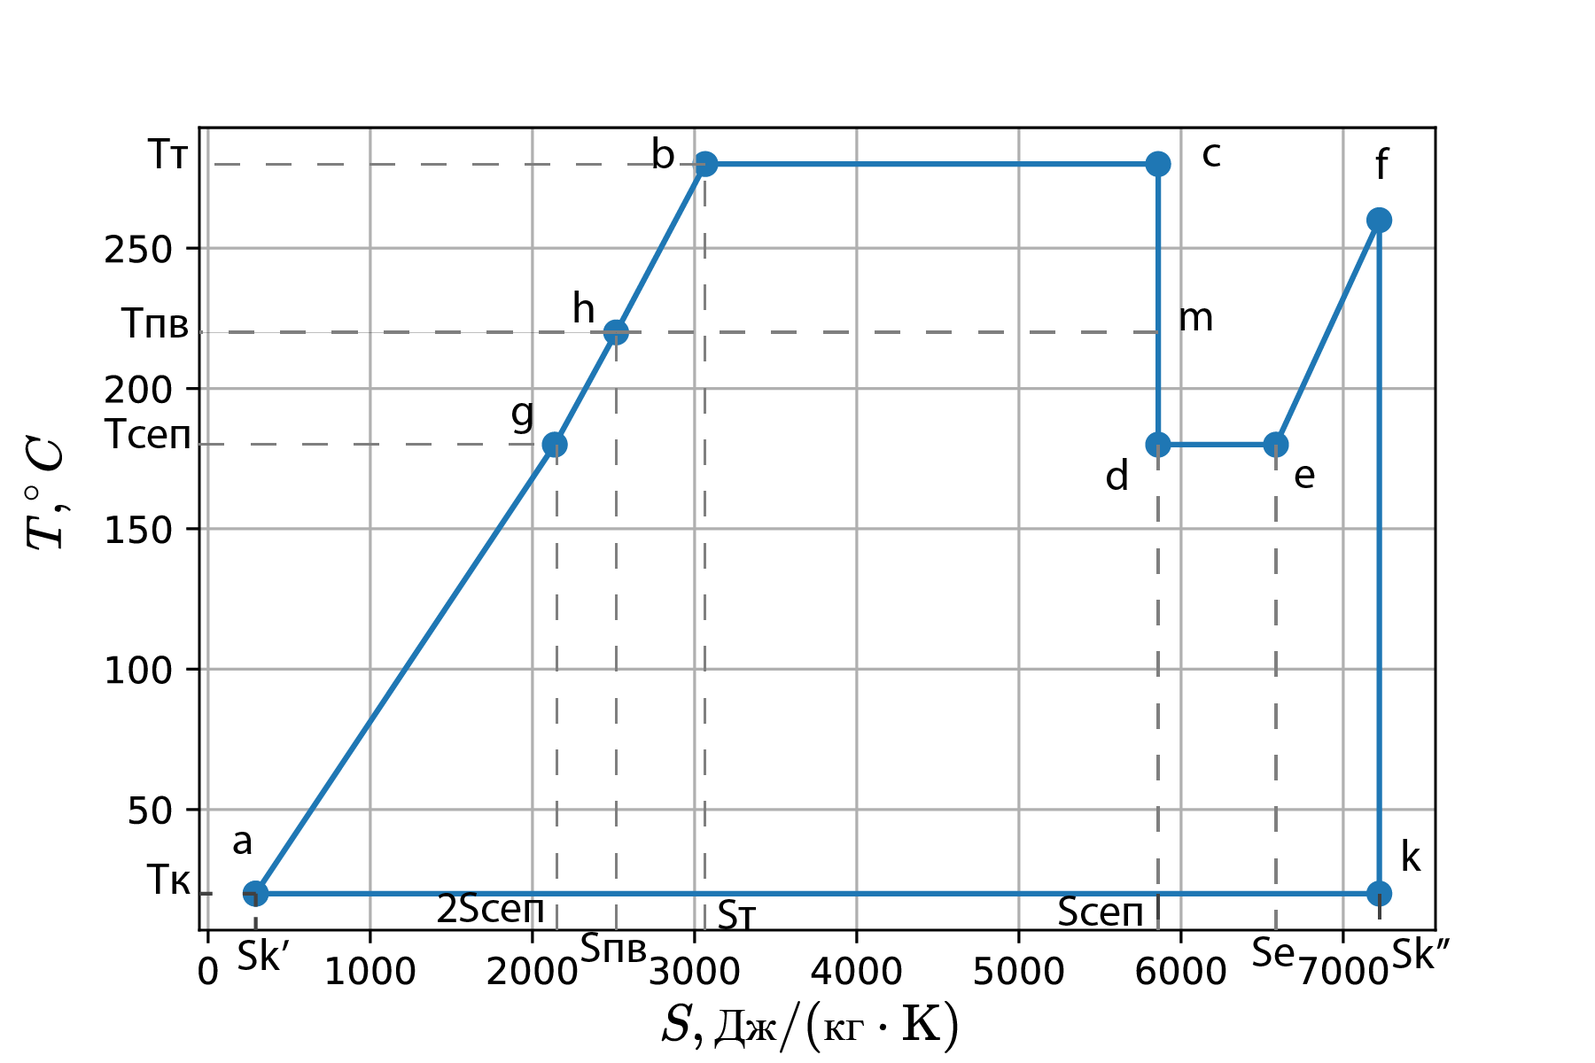
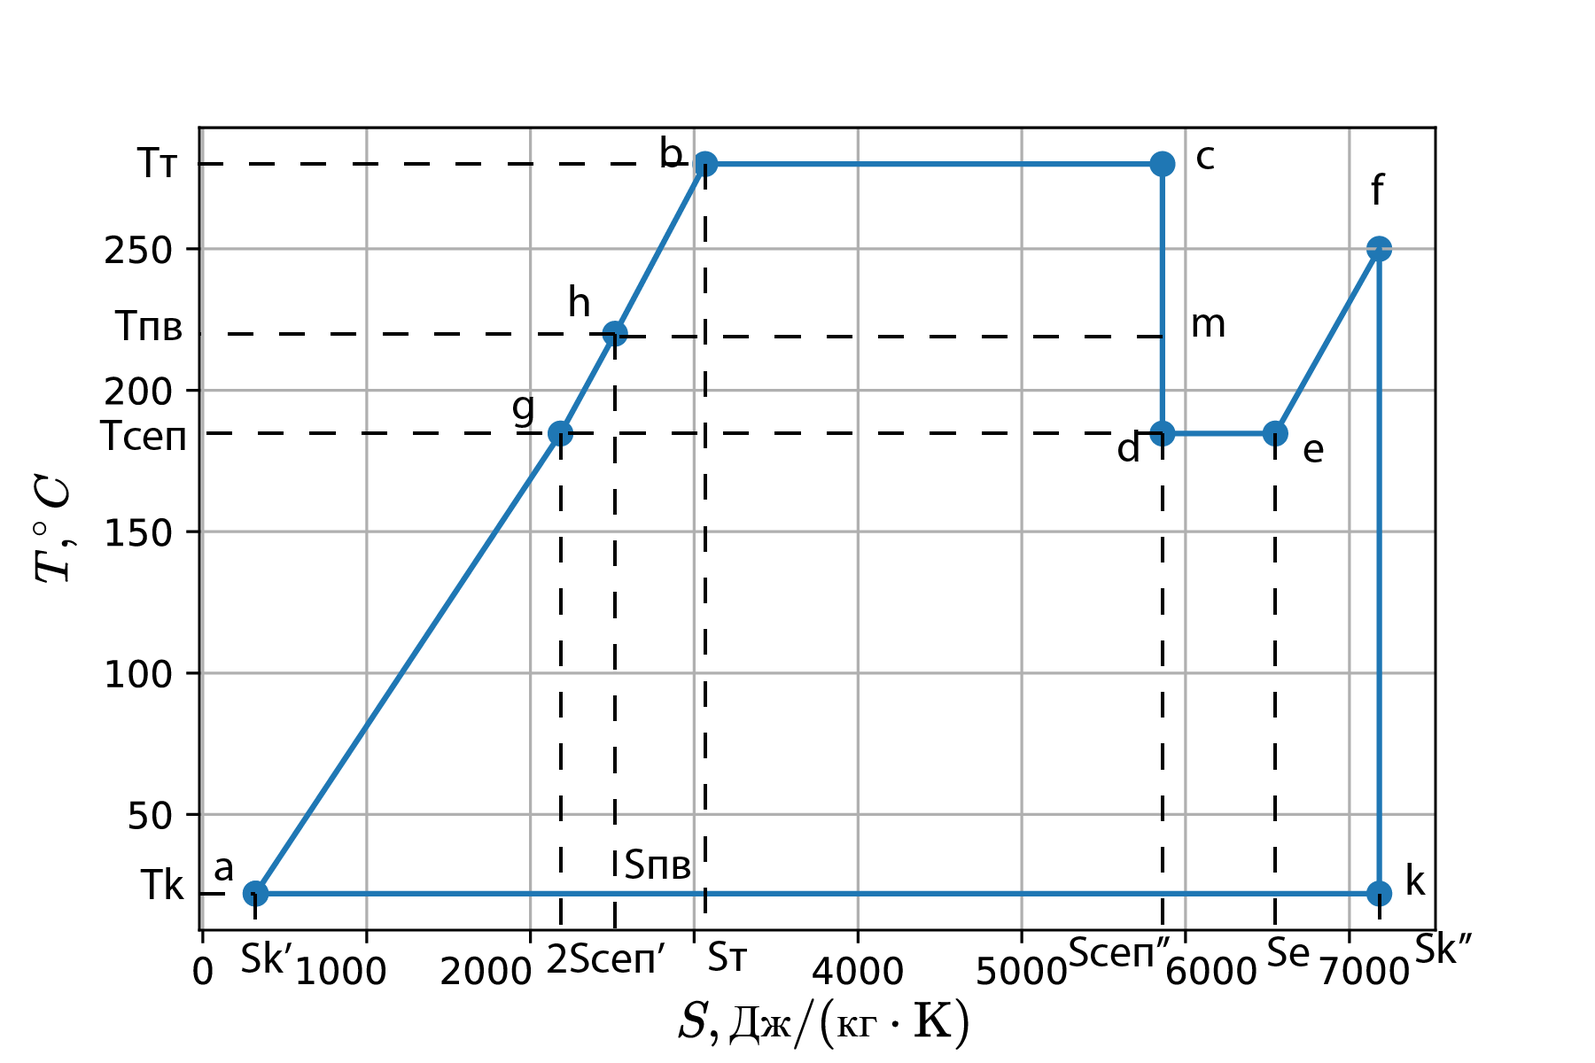
теперь кпд 33

diff --git a/content.tex b/content.tex
@@ -87,15 +87,15 @@
          \hline
          Температура питательной воды, , $^\circ C$ & 220 \\ 
          \hline
-         Температура свежего пара, $^\circ C$  &  281 \\ 
+         Температура свежего пара, $^\circ C$  &  280 \\ 
          \hline
-         Давление свежего пара & 6.5 \\ 
+         Давление свежего пара & 5.9 \\ 
          \hline
          Температура пара после пароперегревателей, $^○C$ & 250 \\ 
          \hline
          Давление в АЗ, МПа & 15.7 \\ 
          \hline
-         Степень сухости пара прсле ЦВД и ЦНД, \% & 80 \\ 
+         Степень сухости пара после ЦВД и ЦНД, \% & 80 \\ 
          \hline
          Количество петель РУ & 4 \\ 
          \hline
@@ -157,9 +157,9 @@
          \hline
          Температура питательной воды, $^\circ C$ & 220 \\ 
          \hline
-         Температура свежего пара, $^\circ C$  & 281\\ 
+         Температура свежего пара, $^\circ C$  & 280\\ 
          \hline
-         Давление свежего пара, $^\circ C$ & 6.5 \\ 
+         Давление свежего пара, $^\circ C$ & 5.9 \\ 
          \hline
          Температура после промежуточного перегрева, $^○C$ & 250 \\ 
          \hline
@@ -192,7 +192,7 @@
 \begin{figure}[H]
 	\begin{center}
 		\includegraphics[]{TS.png}
-		\caption{ TS диаграмма турбинного цикла в реакторе ВВЭР1000 : hbc —нагрев и испарение в парогенераторе; cd — расширение пара в ЦВД; de — паротделяется от конденсата в сепараторе; ef — пар поступает в промежуточныйпароперегреватель; fk — расширение пара в ЦНД; ka  конденсация в конденсаторе; ag — регенеративный подогрев в ПНД; gh — регенеративный подогревв ПВД6
+		\caption{ TS диаграмма турбинного цикла в реакторе ВВЭР-1000 : hbc — нагрев и испарение в парогенераторе; cd — расширение пара в ЦВД; de — пар отделяется от конденсата в сепараторе; ef — пар поступает в промежуточный пароперегреватель; fk — расширение пара в ЦНД; ka — конденсация в конденсаторе; ag — регенеративный подогрев в ПНД; gh — регенеративный подогрев в ПВД;
         }
 		\label{pic:TS} % название для ссылок внутри кода
 	\end{center}
@@ -203,28 +203,28 @@
 	\begin{center}
         \begin{tabular}{|c|c|c|c|c|}
         \toprule
-         Точка & P, МПа & T, $^\circ C$ & S, Дж/(кг*К) & h, кДж/кг \\ 
+         Точка & P, МПа & T, $^\circ C$ & S, Дж/(кг $\cdot$ К) & h, кДж/кг \\ 
          \midrule
          \hline
           h & 2.3 & 220 & 2516 & 942.9\\ 
          \hline
-          b & 6.5 & 280 & 3066 & 1235.8 \\ 
+          b & 5.9 & 280 & 3066.7 & 1235.9 \\ 
          \hline
-          c & 6.5 & 280 & 5858.9 & 2779.9\\ 
+          c & 5.9 & 280 & 5858.9 & 2779.9\\ 
          \hline
-          d & 0.6 & 180 & 5858.9 & 2367.2 \\ 
+          d & 0.6 & 184.7 & 5858.9 & 2367.2 \\ 
          \hline
-          e & 0.6 & 180 & 6585.2 & 2777.1 \\ 
+          e & 0.6 & 184.7 & 6548.2 & 2781 \\ 
          \hline
-          f & 0.6 & 260  & 7222.5 & 29678.3 \\ 
+          f & 0.6 & 250  & 7182.8 & 2957.3 \\ 
          \hline
-          k & 0.0023 & 20 & 7222.5 & 2112.4 \\ 
+          k & 0.004 & 22 & 7182.8 & 2163.7 \\ 
          \hline
-          k′ & 0.0023 & 20 & 294.4 & 83.29 \\ 
+          k′ & 0.004 & 22 & 322.8 & 91.7 \\ 
          \hline
-          a & 6.5 & 20 & 293 & 89.39 \\ 
+          a & 5.9  & 22 & 321.5 & 97.16 \\ 
          \hline
-          g & 0.6 & 180 &  2138.1 & 7599.2 \\ 
+          g & 0.6 & 184.7 &  2183.5 & 783.3 \\ 
          \bottomrule
 		\end{tabular}
 		\label{tabular:coeffs}
@@ -235,18 +235,18 @@
 $$
 η_{t0} = 1 -
 \frac{T_{k} ⋅ \left( s_{f} - s_{a} \right) ⋅ x_{d}}
-{\left( h_{c} - h_{g} \right) +x_{d}\left( \left( h_{g} - h_{a} \right) + \left( h_{f} - h_{e} \right) \right)} = 0.395
+{\left( h_{c} - h_{g} \right) +x_{d}\left( \left( h_{g} - h_{a} \right) + \left( h_{f} - h_{e} \right) \right)} = 0.3897
 %= \VAR{KPD_t0}
 $$
 Термический КПД с идеальной регенерацией:
 $$
 η_{t∞} = 1 -
 \frac{T_{k} ⋅ \left( s_{f} - s_{g} \right) \left( s_{c} - s_{h} \right)}
-{\left(h_{c} - h_{h}\right) ⋅ \left( s_{e} - s_{g} \right) + \left( h_{f} - h_{e} \right) ⋅ \left( s_{f} - s_{h} \right)} = 0.454
+{\left(h_{c} - h_{h}\right) ⋅ \left( s_{e} - s_{g} \right) + \left( h_{f} - h_{e} \right) ⋅ \left( s_{f} - s_{h} \right)} = 0.427
 $$
 Термический КПД с $n = 7$  регенеративными отборами:
 $$
-η_{tn} = η_{t0} + \left( η_{t∞} - η_{t0} \right) ⋅ \frac{n}{n+1} = 0.446
+η_{tn} = η_{t0} + \left( η_{t∞} - η_{t0} \right) ⋅ \frac{n}{n+1} = 0.423
 $$
 
 Учитываем:
@@ -256,22 +256,22 @@ $\eta_{\text{эг}}$ = 0.98 — КПД электрогенератора;
 $\eta_{\text{мех}}$ = 0.97 — КПД механический,
 Вычисляем КПД брутто АЭС как:
 $$
-\eta_{\text{брутто}} = \eta^7 \cdot \eta^{\text{вн}} \cdot \eta_{\text{ос}} \cdot \eta_{\text{эг}} \cdot \eta_{\text{мех}} = 0.354
+\eta_{\text{брутто}} = \eta^7 \cdot \eta^{\text{вн}} \cdot \eta_{\text{ос}} \cdot \eta_{\text{эг}} \cdot \eta_{\text{мех}} = 0.335
 $$
 Тепловая мощность реактора при номинальной электрической мощности $Q_{\text{эл}} = 1000$ МВт равна:
 $$
-Q_{\text{теп}} = \frac {Q_{\text{эл}}} {\eta^{\text{брутто}}} = 2829 МВт 
+Q_{\text{теп}} = \frac {Q_{\text{эл}}} {\eta^{\text{брутто}}} = 2988 МВт 
 $$
 
 
 \subsection{Расчет изменения теплового потока в наиболее нагруженном канале}
 из условия $K_z = \frac {\pi H_{\text{аз}}} {2 H_{\text{эф}} \sin \left(\frac {\pi H_{\text{аз}}}{2H_{\text{эф}}}\right)}  = 1.5$ находим эфективную добавку к высоте активной зоны. эффективная высота активной зоны будет равна $h_{\text{эф}} = 3.715$ м. максимальная величина теплового потока на один твэл:
 $$
-q_{max} = \frac {Q_{\text{теп}}K_r K_z}{N_{ТВС}N_{\text{твэл}}H_{\text{аз}}} = 293.28\  \frac {\text{Вт}} {\text{см}}
+q_{max} = \frac {Q_{\text{теп}}K_r K_z}{N_{ТВС}N_{\text{твэл}}H_{\text{аз}}} = 309.82\  \frac {\text{Вт}} {\text{см}}
 $$ 
 Зависимость величины теплового потока от высоты:
 $$
-q(z) = q_{max}\cos\left(\frac {\pi\cdot z} {H_{\text{эф}}}\right) = 293.28 \cos \left(\frac {\pi \cdot z} {3.715} \right)\ \left[\frac{\text{Вт}}{\text{см}} \right]
+q(z) = q_{max}\cos\left(\frac {\pi\cdot z} {H_{\text{эф}}}\right) = 309.82 \cos \left(\frac {\pi \cdot z} {3.715} \right)\ \left[\frac{\text{Вт}}{\text{см}} \right]
 $$
 
 \subsection{Расчет распределения температуры теплоносителя по высоте}
@@ -282,11 +282,11 @@ $$
 
 \noindent Расход теплоносителя через ТВС:
 $$
-G_{ТВС} = \frac {Q_{\text{теп}}} {(h_{\text{вх}} - h_{\text{вх}})N_{\text{ТВС}}} = 93.8 \ \frac {\text{кг}}{\text{c}} 
+G_{ТВС} = \frac {Q_{\text{теп}}} {(h_{\text{вх}} - h_{\text{вх}})N_{\text{ТВС}}} = 99.1 \ \frac {\text{кг}}{\text{c}} 
 $$
 Расход теплоносителя через реактор:
 $$
-G_{\text{реак}} = \frac {Q_{\text{теп}}} {\left(h_{\text{вых}} - h_{\text{вх}}\right)} = 15290.78\ \frac{\text{кг}} {\text{с}}
+G_{\text{реак}} = \frac {Q_{\text{теп}}} {\left(h_{\text{вых}} - h_{\text{вх}}\right)} = 16152.97\ \frac{\text{кг}} {\text{с}}
 $$
 Средняя теплоемкость воды:
 $$
@@ -377,7 +377,7 @@ $$
 	\end{center}
 \end{figure}
 
- Из \ref{pic:Tob} видно, что максимальная температура $T_{\text{об}}^{\max} = 338.3 ^\circ C $ стенки достигается в $Z_{\max} = 0.517 м$. Отсюда можно сделать вывод о том, что также отсутствует поверхностное кипения теплоносителя.
+ Из \ref{pic:Tob} видно, что максимальная температура $T_{\text{об}}^{\max} = 339.4 ^\circ C $ стенки достигается в $Z_{\max} = 0.517 м$. Отсюда можно сделать вывод о том, что также отсутствует поверхностное кипения теплоносителя.
  %максимальная температура оболочки в условиях нормальной эксплуатации определяется прочностными и пластическими свойствами сплава и составляет сколь-кот то из справочника
 
 Общий график для распределений теплоносителя и оболочки представлены на \ref{pic:obsh}
@@ -418,17 +418,17 @@ $$
 	\end{center}
 \end{figure}
 
-Максимальная температура топлива $T_{\text{топ}} = 1503.5 ^\circ C$ при $Z_{\text{max}} = 0.019 \text{м}$. Максимально допустимая температура топлива при авариях определяется температурой плавления оксида урана и составляет с некоторым запасом $2600 ^\circ C$. Однако в условиях нормальной эксплуатации максимально допустимая температура топлива определяется сколонностью топлива к усиленному распуханию начиная с некоторой температуры, которая равна $1990 ^\circ C$.
+Максимальная температура топлива $T_{\text{топ}} = 1570.5 ^\circ C$ при $Z_{\text{max}} = 0.019 \text{м}$. Максимально допустимая температура топлива при авариях определяется температурой плавления оксида урана и составляет с некоторым запасом $2600 ^\circ C$. Однако в условиях нормальной эксплуатации максимально допустимая температура топлива определяется сколонностью топлива к усиленному распуханию начиная с некоторой температуры, которая равна $1990 ^\circ C$.
 
 \subsection{Определение перепадов давления и необходимой мощности насосов на прокачку}
 Для того чтобы определить мощность на прокачку теплоносителя через реактор, найде перепад давления в ТВС
 Гидравлическое сопротивление трения:
 $$
-\Delta P_{\text{тр}} = \frac 1 {2 d_{\text{г}}} \cdot \left(\frac {G_{\text{ТВС}}}{N_{\text{ТВС}}S_{\text{прох}}}  \right)^2 \cdot \frac {\xi_{\text{тр}}} {\rho_{\text{ср}}} = 1.492 \cdot 10^4 \text{Па}
+\Delta P_{\text{тр}} = \frac 1 {2 d_{\text{г}}} \cdot \left(\frac {G_{\text{ТВС}}}{N_{\text{ТВС}}S_{\text{прох}}}  \right)^2 \cdot \frac {\xi_{\text{тр}}} {\rho_{\text{ср}}} = 1.665 \cdot 10^4 \text{Па}
 $$
 Потеря напора на ускорение:
 $$
-\Delta P_{\mathrm{уск}}=\left(\frac{G}{N_{\mathrm{TBC}} \cdot S_{\mathrm{npox}}}\right)^{2} \cdot\left(\frac{1}{\rho_{\mathrm{вых}}}-\frac{1}{\rho_{\mathrm{вx}}}\right) = 2.12 \cdot 10^3 \text{Па}
+\Delta P_{\mathrm{уск}}=\left(\frac{G}{N_{\mathrm{TBC}} \cdot S_{\mathrm{npox}}}\right)^{2} \cdot\left(\frac{1}{\rho_{\mathrm{вых}}}-\frac{1}{\rho_{\mathrm{вx}}}\right) = 2.37 \cdot 10^3 \text{Па}
 $$, где $\rho_{\text{вых}} = 680.8\  \frac {\text{кг}}{\text{м}^2} $, $\rho_{\text{вх}} =752.1\  \frac {\text{кг}}{\text{м}^2}$.
 
 \noindent Нивелирный напор:
@@ -437,29 +437,29 @@ $$
 $$
 Местное сопротивление:
 $$
-\Delta P_{\mathrm{мест}}=\frac{\left(\frac{G}{N_{\mathrm{TBC}} \cdot S_{\mathrm{прох}}}\right)^{2}}{2} \cdot\left(\frac{\xi_{\mathrm{вх}}}{\rho_{\mathrm{вх}}}+\frac{13 \xi_{\mathrm{реш}}}{\rho_{\mathrm{ср}}}+\frac{\xi_{\mathrm{вых}}}{\rho_{\mathrm{вых}}}\right)= 6.75 \cdot 10^4 \text{Па}
+\Delta P_{\mathrm{мест}}=\frac{\left(\frac{G}{N_{\mathrm{TBC}} \cdot S_{\mathrm{прох}}}\right)^{2}}{2} \cdot\left(\frac{\xi_{\mathrm{вх}}}{\rho_{\mathrm{вх}}}+\frac{13 \xi_{\mathrm{реш}}}{\rho_{\mathrm{ср}}}+\frac{\xi_{\mathrm{вых}}}{\rho_{\mathrm{вых}}}\right)= 7.53 \cdot 10^4 \text{Па}
 $$
 где $\xi_{\text{вх}}= 2.6 $ — коэффициент сопротивления на входе в кассету; $\xi_{\text{вых}} = 0.26$ — коэффициент сопротивления на выходе из кассеты, $\xi_{\text{реш}} = 0.45$ — коэффициент сопротивления при проходе через дистанцирующую решетку %укажи количество дистанцирующих решеток
 Общее сопротивление каналов:
 $$
-\Delta P=\Delta P_{\mathrm{тр}}+\Delta P_{\mathrm{уск}}+\Delta P_{\text { нив }}+\Delta P_{\text {мест }} = 8.7 \cdot 10^4\  \text{Па} 
+\Delta P=\Delta P_{\mathrm{тр}}+\Delta P_{\mathrm{уск}}+\Delta P_{\text { нив }}+\Delta P_{\text {мест }} = 9.7 \cdot 10^4\  \text{Па} 
 $$
 Мощность, необходимая для прокачки теплоносителя через весь реактор:
 $$
-N_{\mathrm{пр}}=N_{\mathrm{ТВС}} \frac{\Delta P \cdot G_{\mathrm{TBC}}}{\eta_{\text {нас }} \cdot \rho_{\mathrm{вх}}}= 2.212 \cdot 10^6\  \text{Вт}
+N_{\mathrm{пр}}=N_{\mathrm{ТВС}} \frac{\Delta P \cdot G_{\mathrm{TBC}}}{\eta_{\text {нас }} \cdot \rho_{\mathrm{вх}}}= 2.6 \cdot 10^6\  \text{Вт}
 $$
 КПД реактора с учетом потерь на прокачку теплоносителя:
 $$
-\eta^{\prime}=\frac{Q_{\text {эл }}-N_{\text {пр }}}{Q_{\text {теп }}} = 0.3527 
+\eta^{\prime}=\frac{Q_{\text {эл }}-N_{\text {пр }}}{Q_{\text {теп }}} = 0.334 
 $$
 % \subsection{Определение запаса до кризиса теплообмена}
 
 \subsection{Выводы из теплофизического расчета}
 По итогам теплогидравлического расчета были определены основные термодинамические и теплогидравлические параметру РУ ВВЭР-1000. Были выполнены следующие поставленные задачи:
 \begin{enumerate}
-   \item Произведен выбор турбины и определён её КПД равный 0.353 с учетом мощности, необходимой на прокачку теплоносителя.
-   \item Были найдены зависимости температуры оболочки и теплоносителя от высоты АЗ, было выяснено, что поверхностного кипения не наблюдается, и максимальная тепература оболочки твэла 338.3 $^\circ C$ не превышает предельно допустимую.
-   \item Определена зависимость температуры топлива от высоты АЗ, максимальная температура топлива $1503 ^\circ C$ не превышает предельное значение $1900 ^\circ C$.
+   \item Произведен выбор турбины и определён её КПД равный 0.334 с учетом мощности, необходимой на прокачку теплоносителя.
+   \item Были найдены зависимости температуры оболочки и теплоносителя от высоты АЗ, было выяснено, что поверхностного кипения не наблюдается, и максимальная тепература оболочки твэла 339.4 $^\circ C$ не превышает предельно допустимую.
+   \item Определена зависимость температуры топлива от высоты АЗ, максимальная температура топлива $1570 ^\circ C$ не превышает предельное значение $1900 ^\circ C$.
 \end{enumerate}
 
 % \section{Нейтронно-физический расчет}
